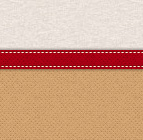
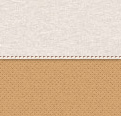
story

diff --git a/app/assets/stylesheets/global.sass b/app/assets/stylesheets/global.sass
@@ -16,7 +16,7 @@
 +font-face("Pluto-CondensedItalic", font-files("Pluto-Italic/203125_9_0.ttf", "Pluto-Italic/203125_9_0.woff"), "Pluto-Italic/203125_9_0.eot")
 +font-face("Pluto-Heavy", font-files("Pluto/203124_D_0.ttf", "Pluto/203124_D_0.woff"), "Pluto/203124_D_0.eot")
 +font-face("Pluto-HeavyCondensed", font-files("Pluto/203124_5_0.ttf", "Pluto/203124_5_0.woff"), "Pluto/203124_5_0.eot")
-+font-face("Pluto-LightItalic", font-files("Pluto-Italic/203125_1_0.ttf", "Pluto-Italic/203125_1_0.woff"), "Pluto-Italic/203125_1_0.eot")
++font-face("Pluto-LightItalic", font-files("Pluto-Italic/203125_2_0.ttf", "Pluto-Italic/203125_2_0.woff"), "Pluto-Italic/203125_2_0.eot")
 
 body
   height: 100%
@@ -182,19 +182,19 @@ body
     a:hover
       color: #E2001A
 
-#text_1, #text_2, #text_3, #text_4, #text_5
+#text_1, #text_2, #text_3, #text_4
   margin: auto
   width: 690px
   padding: 50px 0
 
 
-#story_1, #story_2, #story_3, #story_4, #story_5
+#story_1, #story_2, #story_3
   min-height: 700px
 
 #story_1
   padding-top: 75px  
 
-.uebergang
+.uebergang1
   background-image: url(image_path('pattern_uebergang1.jpg'))
   background-repeat: repeat-x
   height: 113px
@@ -203,20 +203,10 @@ body
 .uebergang2
   background-image: url(image_path('pattern_uebergang2.jpg'))
   background-repeat: repeat-x
-  height: 140px
-
-.uebergang3
-  background-image: url(image_path('pattern_uebergang3_.jpg'))
-  background-repeat: repeat-x
   height: 113px
 
-.uebergang4
-  background-image: url(image_path('pattern_uebergang4.jpg'))
-  background-repeat: repeat-x
-  height: 116px
-
-.uebergang5
-  background-image: url(image_path('pattern_uebergang5.jpg'))
+.uebergang3
+  background-image: url(image_path('pattern_uebergang3.jpg'))
   background-repeat: repeat-x
   height: 113px
 
@@ -232,7 +222,7 @@ body
   background-image: url(image_path('pattern2.jpg'))
 
 #story_3
-  background-image: url(image_path('pattern__.jpg'))
+  background-image: url(image_path('pattern_.jpg'))
 
 
 
@@ -292,186 +282,58 @@ body
   text-transform: uppercase
   font-size: 12px  
 
-.welcome1
-  +braun-shadow-idea(Pacifico, 62pt)
-  width: 500px
-  display: inline
-
-.welcome11
-  display: inline 
-  +letterpress-rot-welcome(Pluto-HeavyCondensed, 19.8pt)  
-  text-transform: uppercase
  
-.welcome2
-  +weiß-shadow-welcome(Pluto-LightItalic, 19.4pt)
-  letter-spacing: 1px
-  padding-top: 8px
+.welcome1, .ingredients3
+  +pluto-italic($braun, $weiss)
 
-.welcome22
-  +weiß-shadow-welcome(Pluto-LightItalic, 19.8pt)  
-  padding-top: 10px
+.welcome2
+  +sanches-bold-gross($rot, $weiss)
+
+.welcome3
+  +pluto-spacing($braun)
 
 .welcome4
-  +letterpress-rot-welcome(Sanches-Bold, 62.6pt)
-
-.welcome5
-  +weiß-shadow-welcome(Pluto, 25.8pt)
-  text-transform: uppercase
-  letter-spacing: 13px
-
-.welcome6
-  +letterpress-braun-welcome(Sanches-Bold, 61.8pt)
-
-.idea1
-  +braun-shadow-idea(Pacifico, 44pt)
-  width: 600px
-  display: inline
-
-.idea11  
-  +letterpress-rot-idea(Pluto-HeavyCondensed, 19.8pt)
-  text-transform: uppercase
-  display: inline
-
-.idea2
-  +weiß-shadow-idea(Pluto-LightItalic, 22.4pt)
-  padding-top: 10px
-  letter-spacing: 1px
-
-.idea22
-  +weiß-shadow-idea(Pluto-LightItalic, 22.8pt)
-  padding-top: 10px  
-
-.idea3
-  +letterpress-braun-idea(Sanches-Bold, 31pt)
-  padding-top: 10px  
-
-.idea4
-  +weiß-shadow-idea(Pluto, 22pt)
-  text-transform: uppercase
-  letter-spacing: 5px
-  padding-top: 10px
-
-.idea5
-  +letterpress-braun-idea(Sanches-Bold, 54.3pt) 
-
-.idea6
-  +weiß-shadow-idea(Pluto-LightItalic, 16.8pt)
-
-.idea7
-  +letterpress-rot-idea(Sanches-Bold, 46.1pt)     
+  +sanches-bold-klein($braun)
 
 
-.intention1
-  +letterpress-braun-intention(Pacifico, 55pt)  
+.ingredients1
+  +pluto-spacing($braun)
 
-.intention2
-  +weiß-shadow-intention(Pluto-LightItalic, 18pt)
-  padding-top: 8px
+.ingredients2
+  +sanches-bold-gross($rot, $weiss)
 
-.intention5
-  +weiß-shadow-intention(Pluto-LightItalic, 18pt)
-  padding-top: 15px
-
-.intention55
-  +weiß-shadow-intention(Pluto-LightItalic, 17.5pt)
-  letter-spacing: 1px
-  padding-top: 10px
-
-.intention22
-  +weiß-shadow-intention(Pluto-LightItalic, 18pt)
-  letter-spacing: 1px
-  padding-top: 10px
+.ingredients4
+  +sanches-bold-klein($braun) 
+  padding-top: 5px 
 
 
-.intention3
-  +letterpress-braun-intention(Sanches-Bold, 49.8pt)   
+.sharing1
+  +pluto-spacing($bege)
 
-.intention4
-  +letterpress-rot-intention(Pluto, 18pt)
-  text-transform: uppercase
-  letter-spacing: 5px  
+.sharing2
+  +sanches-bold-gross($dunkelrot, $bege)  
 
-.intention6
-  +letterpress-braun-intention(Sanches-Bold, 37pt)  
+.sharing3
+  +pluto-italic($hellbraun, $schwarz)  
 
-.join1
-  +braun-shadow-idea(Pacifico, 43.1pt)
-
-.join2
-  +weiß-shadow-idea(Pluto-LightItalic, 19pt)
-  padding-top: 20px  
-
-.join3  
-  +weiß-shadow-idea(Pluto-LightItalic, 19pt)
-  width: 400px
-  display: inline
-
-.join33
-  +letterpress-braun-join(Pluto-HeavyCondensed, 25.8pt)
-  text-transform: uppercase
-  display: inline  
-  letter-spacing: 5px
-  padding-left: 10px
-
-.join4
-  +letterpress-rot-join(Pluto, 20.6pt)
-  text-transform: uppercase
-  letter-spacing: 5px  
-  padding-top: 15px
-
-.join5
-  +letterpress-braun-join(Sanches-Bold, 51pt)  
-
-#text6
-  width: 1024px
+.sharing4
+  +sanches-bold-klein($bege)
 
 .share
-  +weiß-shadow-welcome(Pluto-Heavy, 36pt)
-  text-transform: uppercase
+  +pluto-spacing($braun)
   text-align: center
   line-height: 1.3
   margin-top: 20px
 
 .share2  
-  +letterpress-rot-share(Pluto-Heavy, 18pt)
+  +pluto-italic($rot, $weiss)
   text-align: center
-  text-transform: uppercase
   padding-top: 35px
-
-.sharing1
-  +braun-shadow-idea(Pacifico, 34.8pt)
-  width: 400px
-  display: inline
-
-.sharing11  
-  +letterpress-rot-sharing(Pluto-HeavyCondensed, 15pt)
-  text-transform: uppercase
-  display: inline
-  letter-spacing: 1px
-
-.sharing2
-  +weiß-shadow-idea(Pluto-LightItalic, 22pt)
-  padding-top: 10px
-
-.sharing22
-  +weiß-shadow-idea(Pluto-LightItalic, 22.8pt)  
-
-.sharing3
-  +letterpress-rot-idea(Sanches-Bold, 42.2pt)
-
-.sharing4
-  +weiß-shadow-idea(Pluto, 26.6pt) 
-  text-transform: uppercase
-  letter-spacing: 5px
-
-.sharing44
-  +weiß-shadow-idea(Pluto-LightItalic, 24.8pt)  
-  padding-top: 8px
-
-.sharing5
-  +letterpress-braun-sharing(Sanches-Bold, 44.6pt)
 
 .stories
   margin: auto  
+
+#text_4
+  width: 1024px  
 
 

diff --git a/app/assets/stylesheets/mixins.sass b/app/assets/stylesheets/mixins.sass
@@ -1,13 +1,47 @@
-@mixin letterpress-braun-welcome ($font, $size)
-  text-shadow: 0 -2px 0px #531E09, 0 2px 1px white
-  font-family: $font
-  color: #7C6259  
-  font-size: $size
+$braun: #531E09
+$rot: #E2001A
+$bege: #FFF4E0 
+$hellbraun: #D4AB71
+$weiss: #FFFFFF
+$schwarz: #000000
+$dunkelrot: #ad0014
 
-@mixin weiß-shadow-welcome ($font, $size)
-  font-family: $font
-  font-size: $size
-  text-shadow: 0 2px 0 white
+
+
+@mixin pluto-italic ($color, $shadow)
+  font-family: Pluto-LightItalic
+  color: $color
+  font-size: 25px
+  text-shadow: 0 1px 0 $shadow
+  text-align: justify
+
+@mixin pluto-spacing ($color)
+  font-family: Pluto
+  text-transform: uppercase
+  letter-spacing: 5px
+  color: $color
+  font-size: 33px
+  text-shadow: 0 -1px 0 #000000, 0 1px 0px #fff 
+  text-align: justify  
+
+@mixin sanches-bold-gross ($color, $shadow)
+  font-family: Sanches-Bold
+  color: $color
+  font-size: 79px
+  text-shadow: 0 -2px 0 #000000, 0 1px 0px $shadow 
+  text-align: justify 
+
+@mixin sanches-bold-klein ($color)
+  font-family: Sanches-Bold
+  color: $color
+  font-size: 64px
+  text-shadow: 0 -2px 0 #000000, 0 1px 0px #fff 
+  text-align: justify  
+
+
+
+
+
 
 @mixin letterpress-rot-welcome ($font, $size)
   text-shadow: 0 -2px 0px #531E09, 0 2px 1px white
